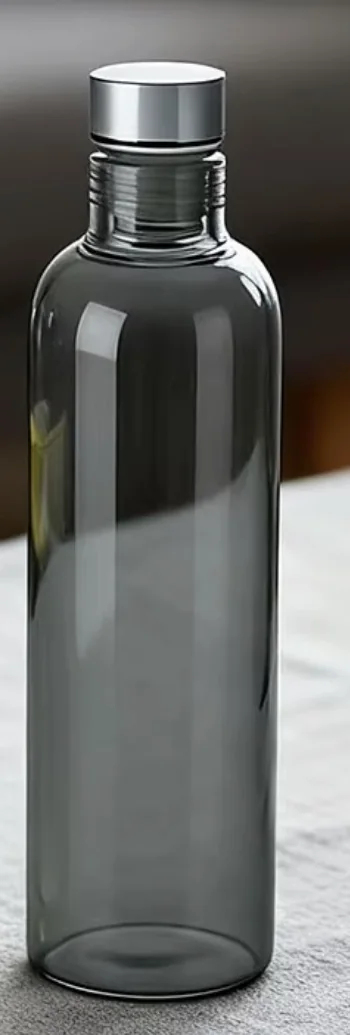
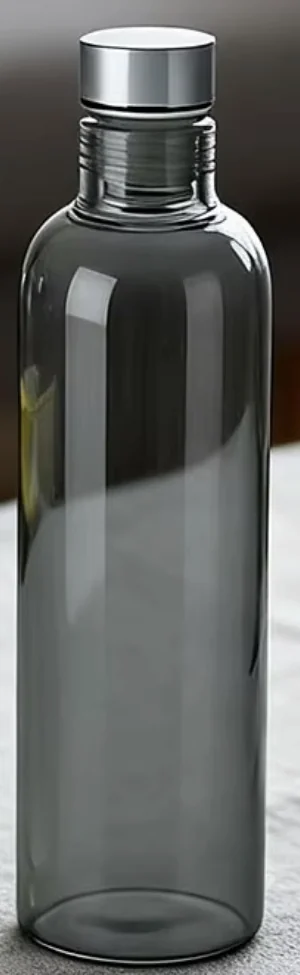
Rework the order drawer: bigger bottle, tighter copy, filled space
The bottle
  Recropped tight to the glass — the old box carried a band of blurred
  room down both sides — and the frame is now proportioned to the
  photograph itself (300:975), so it fills edge to edge with nothing
  letterboxed and nothing cut off. It is 64x208 where it was 48x96, and
  the text beside it centres against it rather than sitting at its top.

Ounces, not litres
  The whole line — "BOROSILICATE · 1 L · $49 EACH" — is gone, along
  with PRODUCT.meta. The name and the price already say both of those
  things directly above it.

  The unit itself was wrong everywhere else too, so "one litre" is now
  "32 ounces" in the product copy, the meta description, the og and
  twitter descriptions, the Product JSON-LD, the terms, and the share
  card, which was regenerated rather than left contradicting the page.

What's in the box
  Title case throughout, except the wordmark, which is lowercase by
  brand rule and is now the artwork rather than the word set in type —
  assets/brand/vates-wordmark.svg inline, sized off the type at 0.95em.
  It needs to run a little larger than the text around it: the mark is
  lowercase with a single ascender, so a box matched to the type's own
  height renders its x-height visibly smaller than the words either
  side of it.

  "The 'Page of Inspiration'" takes proper quotes.

Filling the space
  The list stopped bunching at the top and now takes whatever height
  the cart leaves: .drawer__body is a column, .box takes the remainder,
[…]

diff --git a/index.html b/index.html
@@ -5,7 +5,7 @@
 <meta name="viewport" content="width=device-width, initial-scale=1">
 
 <title>No. 01 — a one-piece glass water bottle | vates</title>
-<meta name="description" content="No. 01 by vates. One piece of borosilicate glass, a machined steel cap, one litre. $49, free shipping, 30-day returns. For the creators of the world.">
+<meta name="description" content="No. 01 by vates. One piece of borosilicate glass, a machined steel cap, 32 ounces. $49, free shipping, 30-day returns. For the creators of the world.">
 <meta name="color-scheme" content="dark">
 <meta name="theme-color" content="#2e251b">
 
@@ -20,14 +20,14 @@
 <meta property="og:site_name" content="vates">
 <meta property="og:url" content="https://vates.store/">
 <meta property="og:title" content="No. 01 — a one-piece glass water bottle">
-<meta property="og:description" content="One piece of borosilicate glass, a machined steel cap, one litre. $49, free shipping, 30-day returns.">
+<meta property="og:description" content="One piece of borosilicate glass, a machined steel cap, 32 ounces. $49, free shipping, 30-day returns.">
 <meta property="og:image" content="https://vates.store/assets/img/og.jpg">
 <meta property="og:image:width" content="1200">
 <meta property="og:image:height" content="630">
 <meta property="og:image:alt" content="Two No. 01 bottles, one clear and one smoke grey, on a workbench.">
 <meta name="twitter:card" content="summary_large_image">
 <meta name="twitter:title" content="No. 01 — a one-piece glass water bottle">
-<meta name="twitter:description" content="One piece of borosilicate glass, a machined steel cap, one litre. $49, free shipping, 30-day returns.">
+<meta name="twitter:description" content="One piece of borosilicate glass, a machined steel cap, 32 ounces. $49, free shipping, 30-day returns.">
 <meta name="twitter:image" content="https://vates.store/assets/img/og.jpg">
 
 <link rel="icon" href="assets/brand/vates-mark.svg" type="image/svg+xml">
@@ -56,7 +56,7 @@
   "@type": "Product",
   "name": "No. 01",
   "sku": "VATES-NO01",
-  "description": "A one-piece borosilicate glass water bottle with a machined steel cap. One litre.",
+  "description": "A one-piece borosilicate glass water bottle with a machined steel cap. 32 ounces.",
   "image": "https://vates.store/assets/img/no-01.jpg",
   "brand": { "@type": "Brand", "name": "vates" },
   "material": "Borosilicate glass",
@@ -162,7 +162,7 @@
           <p class="product__lead">Simply essential.</p>
           <p class="product__price">$49</p>
           <p class="product__spec">One piece of borosilicate glass. A machined
-            steel cap. One litre. Dishwasher safe, and it will outlast the desk
+            steel cap. 32 ounces. Dishwasher safe, and it will outlast the desk
             you leave it on.</p>
 
           <form class="purchase" id="purchase-form">
@@ -220,12 +220,15 @@
     <section class="box" id="box-contents" hidden>
       <h3 class="box__title label">What's in the box</h3>
       <ul class="box__list">
-        <li>High borosilicate reusable bottle</li>
-        <li>Custom vates notepad</li>
-        <li>Custom vates pen</li>
-        <li>Wired earbuds</li>
-        <li>The page of inspiration</li>
-        <li>Welcome letter</li>
+        <li>High Borosilicate Reusable Bottle</li>
+        <!-- The wordmark itself, not the word set in type — it is artwork,
+             and the brand rule is that it is never re-set. Lowercase for
+             the same reason, which is why title case skips it. -->
+        <li>Custom <img class="box__mark" src="assets/brand/vates-wordmark.svg" alt="vates" width="893" height="184"> Notepad</li>
+        <li>Custom <img class="box__mark" src="assets/brand/vates-wordmark.svg" alt="vates" width="893" height="184"> Pen</li>
+        <li>Wired Earbuds</li>
+        <li>The &ldquo;Page of Inspiration&rdquo;</li>
+        <li>Welcome Letter</li>
       </ul>
     </section>
   </div>

diff --git a/assets/css/styles.css b/assets/css/styles.css
@@ -699,6 +699,10 @@ a { color: var(--color-link); }
   flex: 1;
   overflow-y: auto;
   padding: clamp(1.25rem, 4vw, 2rem);
+  /* A column, so the box list below can be told to take up whatever
+     height the cart has not used. */
+  display: flex;
+  flex-direction: column;
 }
 
 .drawer__empty { color: var(--color-text-muted); font-size: 0.95rem; }
@@ -711,6 +715,12 @@ a { color: var(--color-link); }
   margin-top: clamp(1.75rem, 5vw, 2.5rem);
   padding-top: clamp(1.5rem, 4vw, 2rem);
   border-top: 1px solid var(--color-border);
+  /* Takes the rest of the drawer rather than leaving a pool of empty
+     ground above the total. */
+  flex: 1;
+  display: flex;
+  flex-direction: column;
+  min-height: 0;
 }
 
 .box__title { display: block; color: var(--color-text-muted); }
@@ -719,15 +729,22 @@ a { color: var(--color-link); }
   margin-top: 1.1rem;
   padding: 0;
   list-style: none;
-  display: grid;
-  gap: 0.7rem;
+  /* Spread down the available height rather than bunching at the top.
+     The gap is the floor: where the drawer is short, or the cart is
+     long, the items keep their spacing and the body scrolls instead. */
+  flex: 1;
+  display: flex;
+  flex-direction: column;
+  justify-content: space-between;
+  gap: 0.9rem;
+  padding-bottom: 0.25rem;
 }
 
 .box__list li {
   position: relative;
-  padding-left: 1.4rem;
-  font-size: 0.92rem;
-  line-height: 1.45;
+  padding-left: 1.5rem;
+  font-size: 1.02rem;
+  line-height: 1.4;
   color: var(--color-text-secondary);
 }
 
@@ -738,17 +755,37 @@ a { color: var(--color-link); }
   position: absolute;
   left: 0;
   top: 0.66em;
-  width: 0.7rem;
+  width: 0.8rem;
   height: 1px;
   background: var(--color-text-muted);
 }
 
+/* The wordmark set inline in a line of text. Sized off the type rather
+   than in pixels, so it tracks the list if the size changes, and never
+   recoloured — it is the logo, not an icon. */
+.box__mark {
+  display: inline-block;
+  /* The wordmark is lowercase with one ascender, so a box matched to
+     the type's own height renders its x-height visibly smaller than the
+     words either side of it. Set a little larger to sit level with
+     them. */
+  height: 0.95em;
+  width: auto;
+  vertical-align: baseline;
+  position: relative;
+  top: 0.09em;
+  margin-inline: 0.12em;
+}
+
 .line-item {
   display: grid;
-  /* Narrow, because the thumbnail is one tall bottle rather than the
-     wide desk scene the product section uses. */
-  grid-template-columns: 3rem minmax(0, 1fr);
+  /* Wide enough to actually read the bottle. The frame below is
+     proportioned to the photograph, so this width sets the height. */
+  grid-template-columns: 4rem minmax(0, 1fr);
   gap: 1.25rem;
+  /* The thumbnail is far taller than the two lines beside it, so those
+     sit against its middle rather than its top. */
+  align-items: center;
   padding-bottom: 1.5rem;
   border-bottom: 1px solid var(--color-border);
 }
@@ -764,19 +801,15 @@ a { color: var(--color-link); }
   background: color-mix(in srgb, var(--color-bg) 90%, var(--color-text-primary));
   border: 1px solid var(--color-border);
   border-radius: var(--radius-md);
-  /* Proportioned to the bottle so the frame hugs it instead of leaving
-     it adrift in the middle of a square. */
-  aspect-ratio: 1 / 2;
-  padding: 0.4rem;
-  display: grid;
-  place-items: center;
+  /* The photograph's own proportions, so the bottle fills the frame
+     edge to edge with no letterboxing and nothing cropped off it. */
+  aspect-ratio: 300 / 975;
   overflow: hidden;
 }
 .line-item__thumb img {
-  max-width: 100%;
-  max-height: 100%;
-  width: auto;
-  height: auto;
+  width: 100%;
+  height: 100%;
+  object-fit: cover;
 }
 
 .line-item__head {

diff --git a/assets/js/app.js b/assets/js/app.js
@@ -8,7 +8,6 @@
   var PRODUCT = {
     id: "no-01",
     name: "No. 01",
-    meta: "Borosilicate · 1 L",
     price: 49,
     /* The drawer shows the bottle on its own, not the desk scene the
        product section uses — at 4.5rem a whole room is a smudge. */
@@ -92,7 +91,6 @@
           '<span class="line-item__name">' + PRODUCT.name + "</span>" +
           '<span class="line-item__price">' + money(line.qty * PRODUCT.price) + "</span>" +
         "</div>" +
-        '<p class="line-item__meta">' + PRODUCT.meta + " · " + money(PRODUCT.price) + " each</p>" +
         '<div class="line-item__controls">' +
           '<div class="stepper" role="group" aria-label="Quantity, ' + PRODUCT.name + '">' +
             '<button type="button" class="stepper__btn" data-line-step="-1" aria-label="Decrease quantity">−</button>' +

diff --git a/terms.html b/terms.html
@@ -38,7 +38,7 @@
 
       <h2>The product</h2>
       <p>No. 01 is a one-piece borosilicate glass bottle with a machined steel
-        cap, one litre, at $49 in US dollars. It is a drinking vessel and is not
+        cap, 32 ounces, at $49 in US dollars. It is a drinking vessel and is not
         made for hot liquids under pressure, for a naked flame, or for a
         freezer. Photographs are as accurate as we can make them; glass and
         screens both vary.</p>
